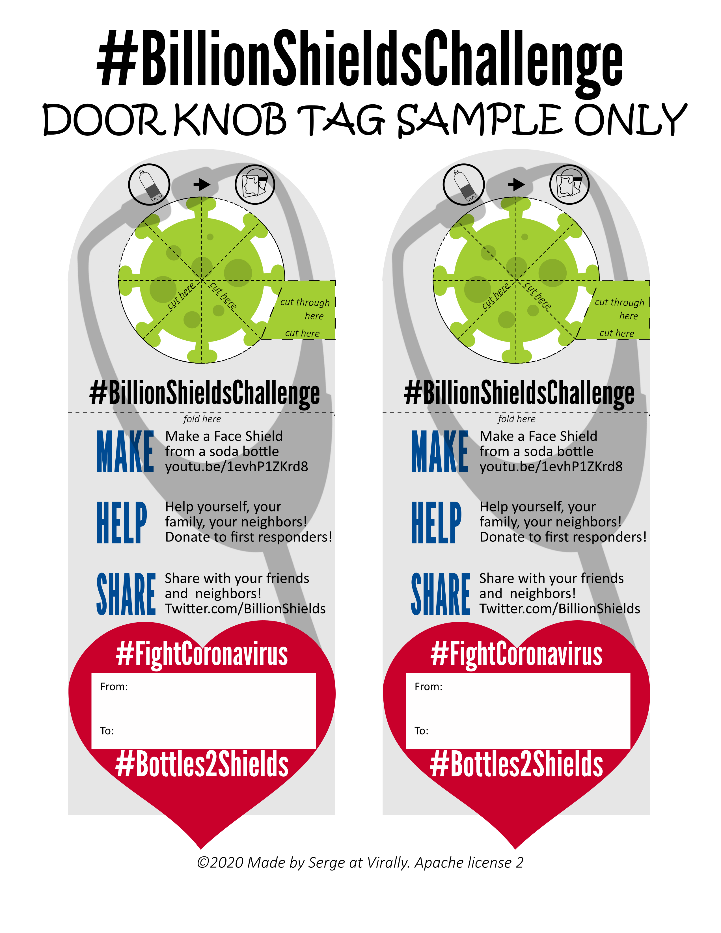
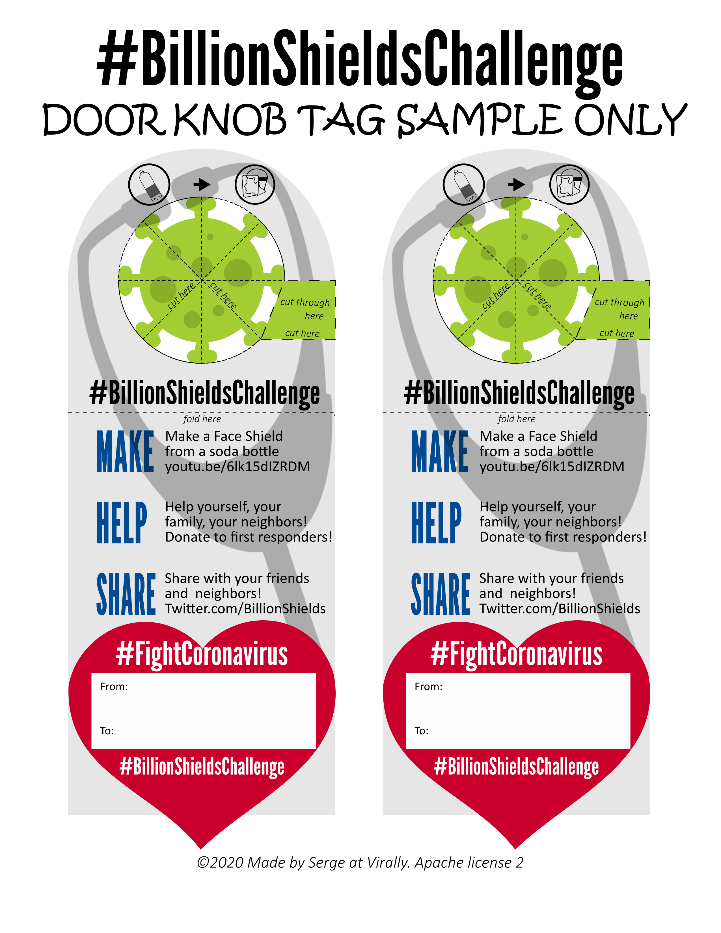
link updated

diff --git a/readme.md b/readme.md
@@ -1,6 +1,17 @@
-# Billion Face Shields World Challenge
+# Can we \#SaveTheWold from Coronavirus with a face shield and a tag?
 
-## Can we \#SaveTheWold from Coronavirus spread with a face shield and a tag?
+# Disclaimer
+
+It is advised that information on this page should be used only as
+general guides and not as the ultimate advice for the topics covered.
+The author and/or publisher shall have neither liability nor
+responsibility to any person or entity with respect to any loss or
+damage caused or alleged to be caused directly or indirectly by the
+information covered in this video. This video is not intended for use as
+a source of health, business, legal, or accounting advice. This video is
+for informational purposes only. If advice concerning the health,
+financial, legal, business or related matters is needed, the services of
+a fully qualified professional should be sought.
 
 Yes, folks, I need your help. We can fight the coronavirus with our
 ingenuity\! We can create simple Face Shields from large soda bottles.
@@ -24,10 +35,10 @@ Serge from Virally
 
 ![](.//media/image4.png)
 
-![](.//media/image5.png) Follow us on Twitter and send us pictures of
+![](.//media/image5.png)Follow us on Twitter and send us pictures of
 your face shields
 [www.Twitter.com/BillionShields](http://www.Twitter.com/BillionShields)
 
-![](.//media/image6.jpeg) Support on Patreon (add link)
+![](.//media/image6.jpeg)Support on Patreon (add link)
 
-![](.//media/image7.png) Connect on LinkedIn https://www.linkedin.com/in/broadcastic
+![](.//media/image7.png)Connect on LinkedIn
